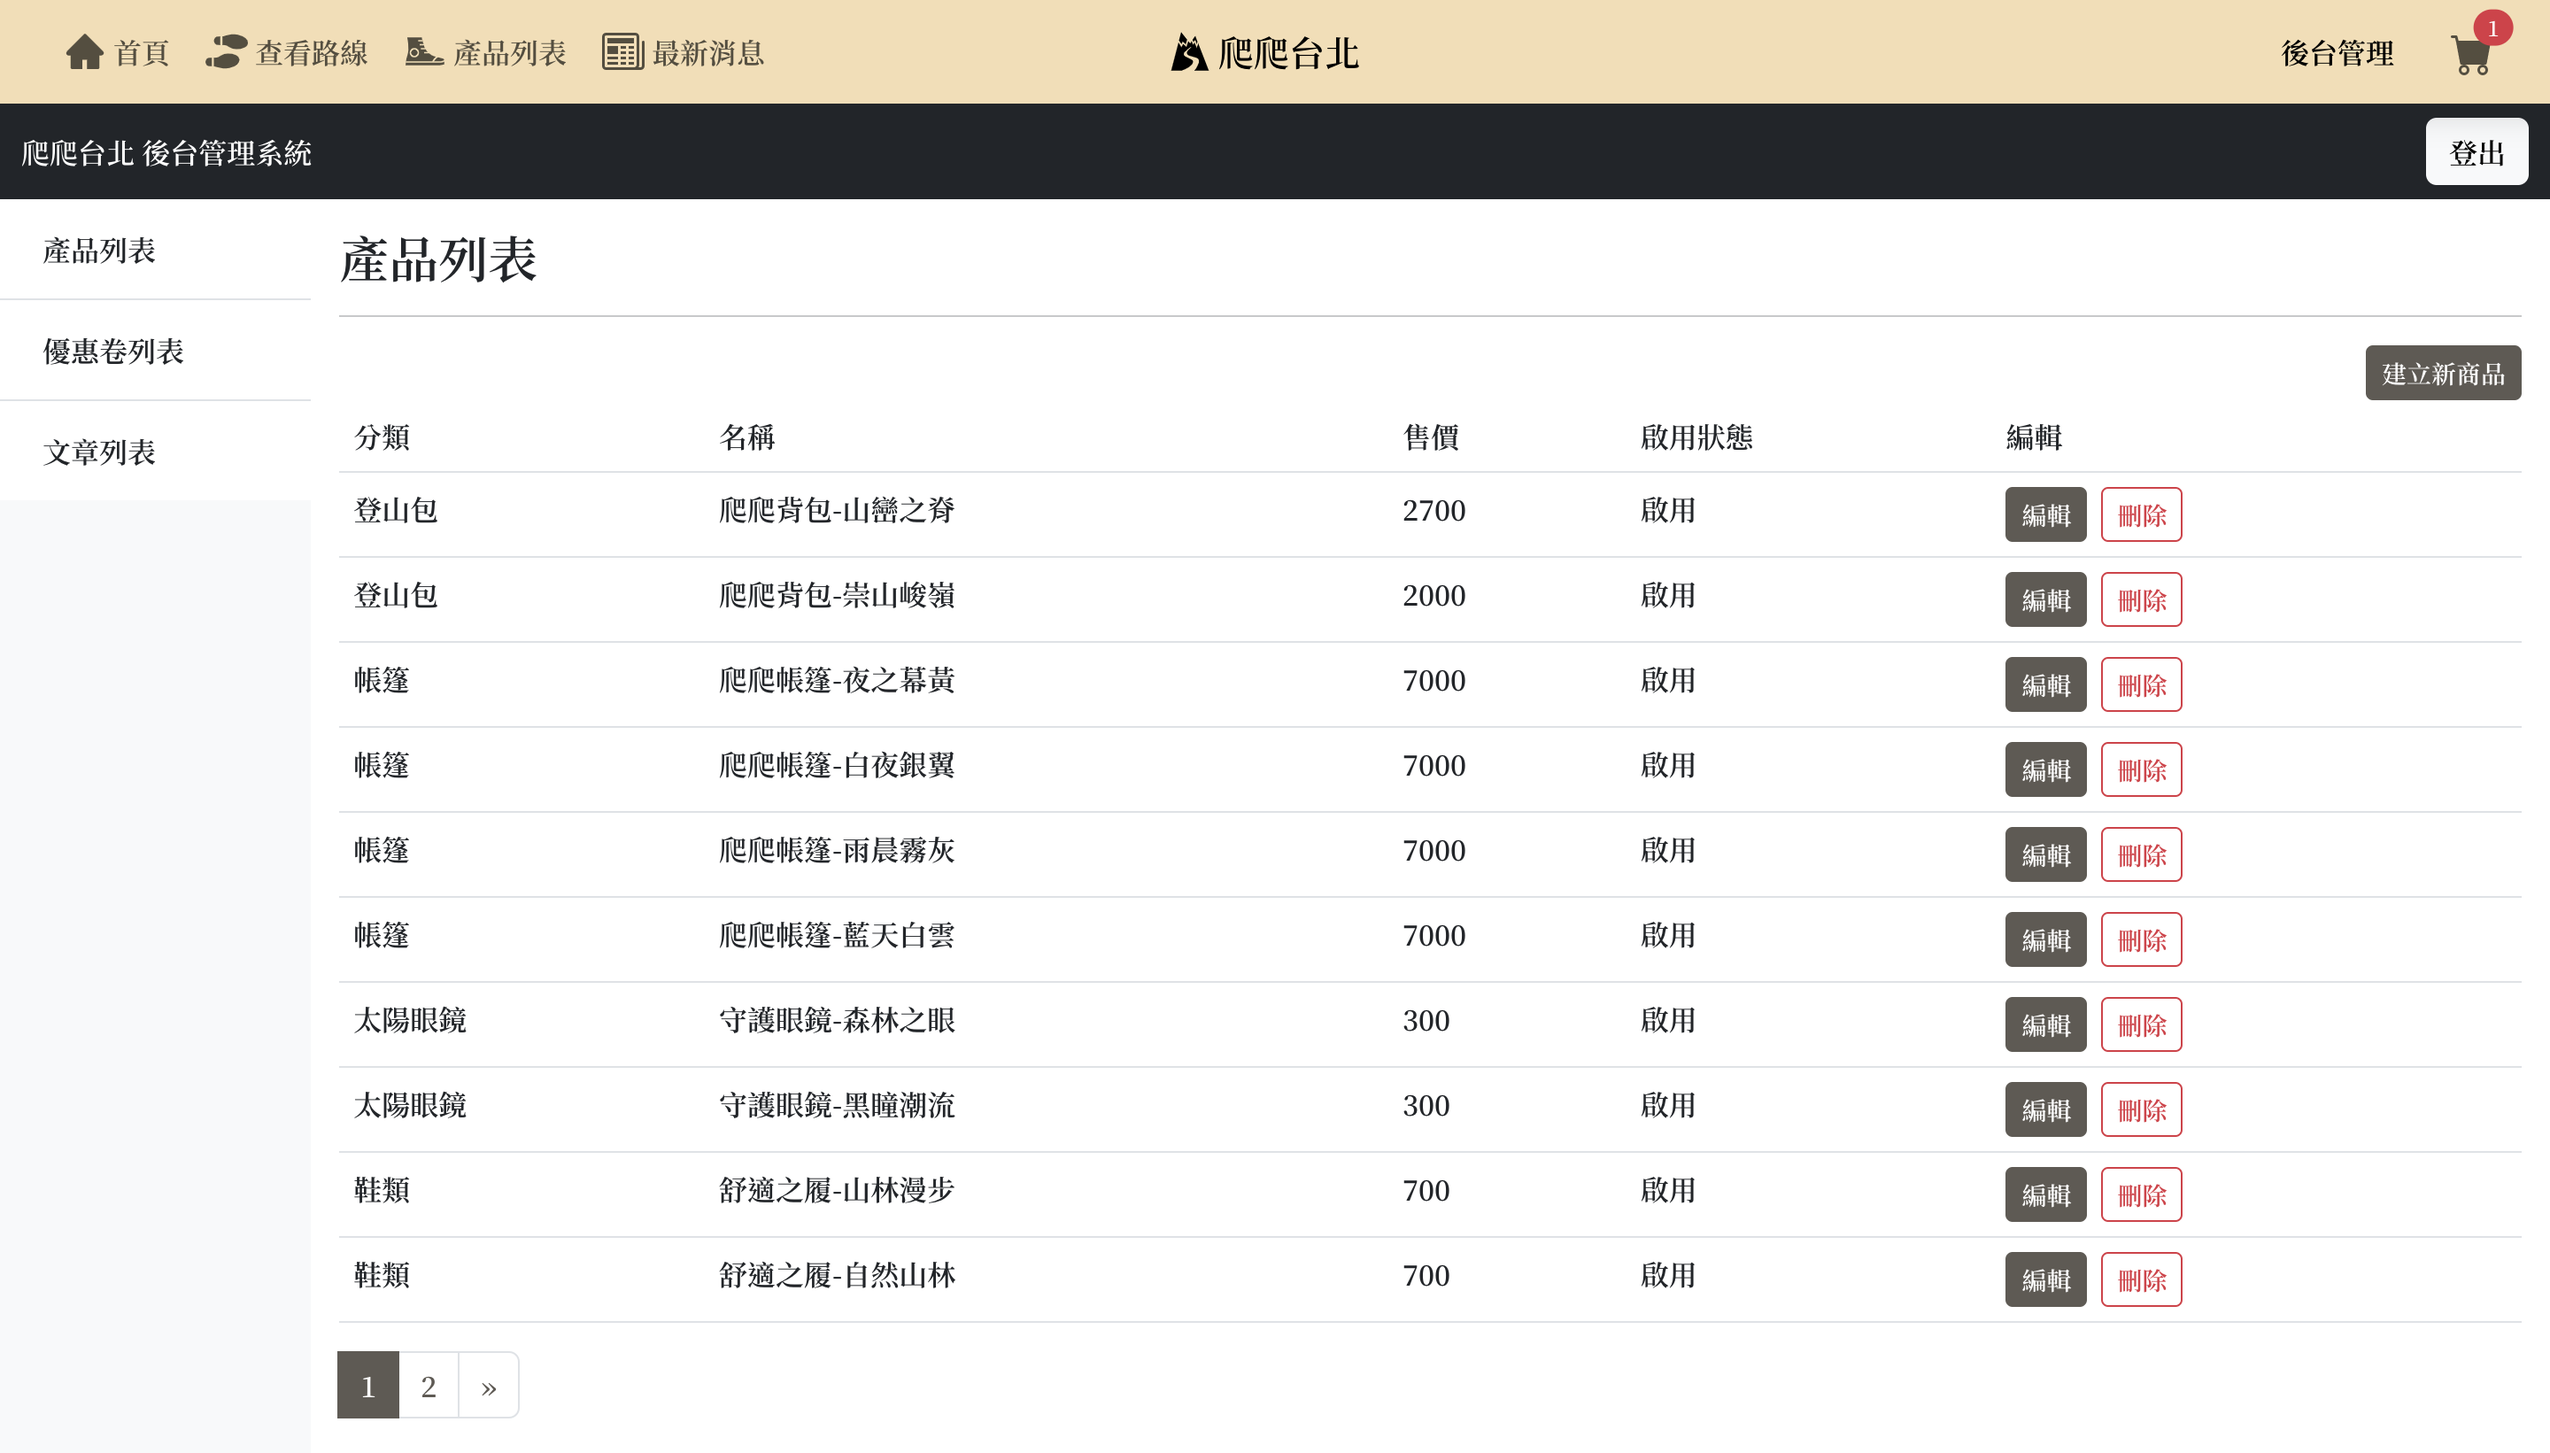
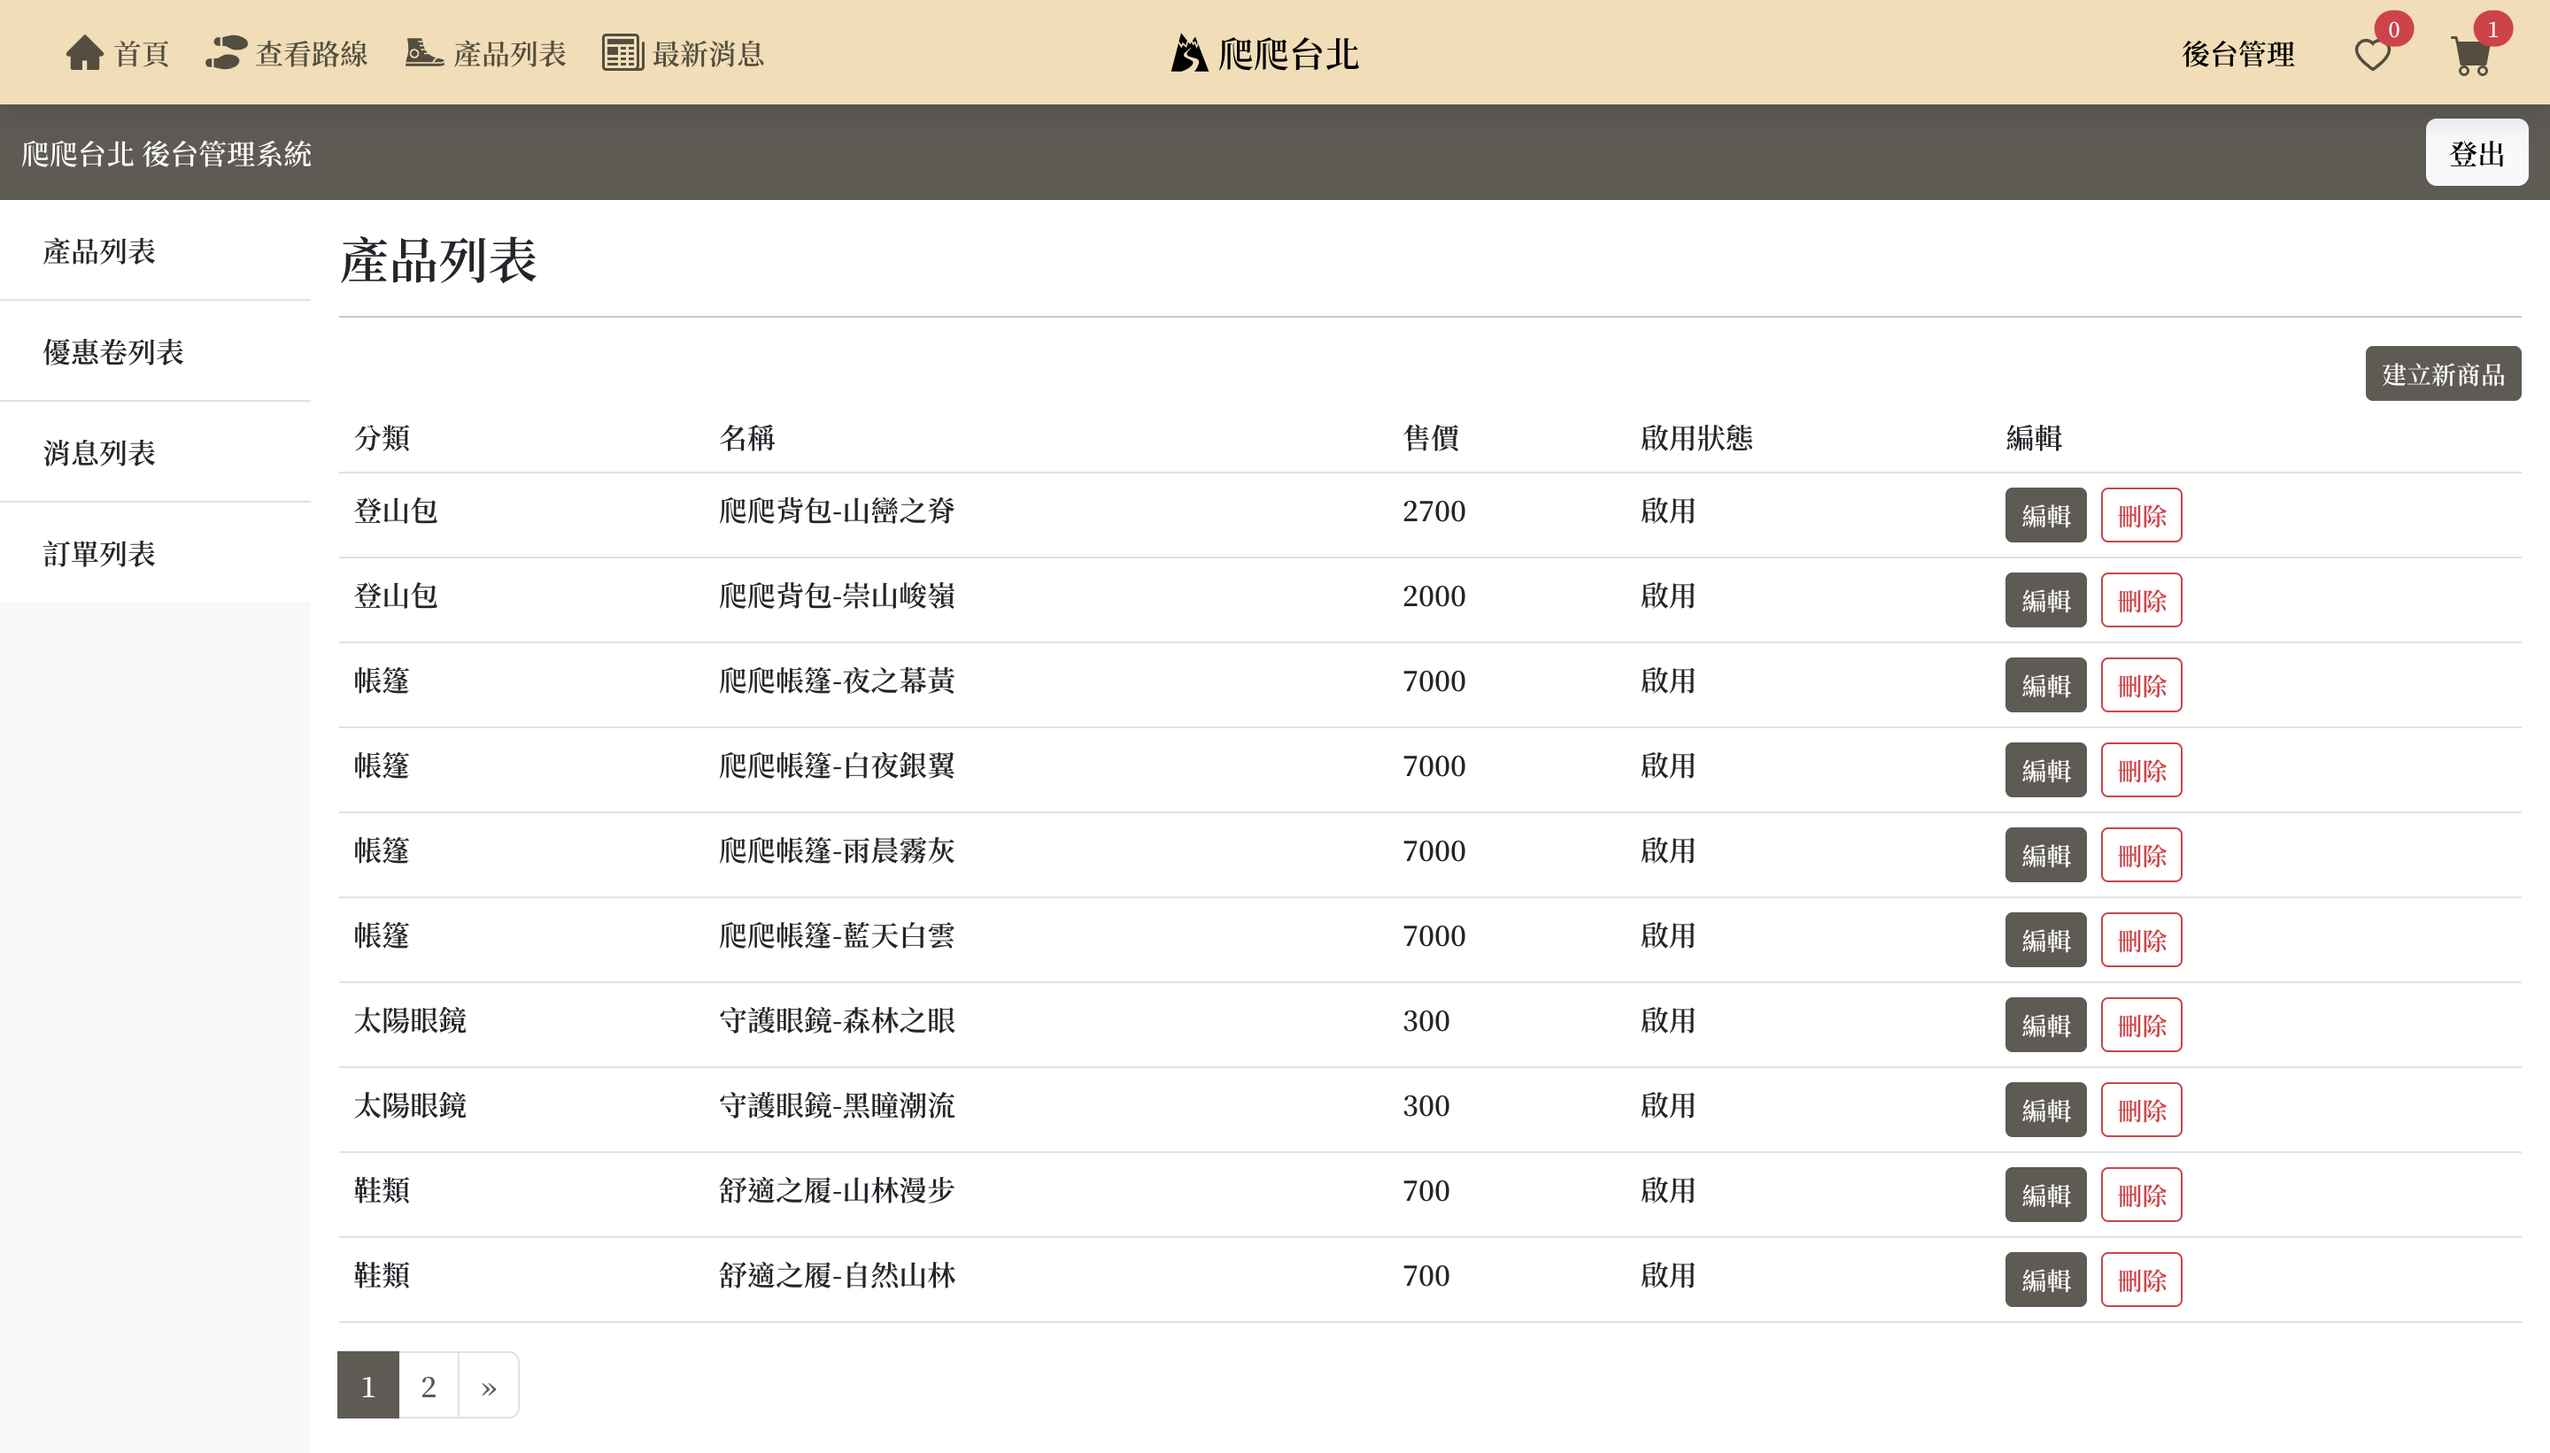
update readme

diff --git a/src/pages/admin/Dashboard.jsx b/src/pages/admin/Dashboard.jsx
@@ -54,7 +54,7 @@ const Dashboard = () => {
   return (
     <MessageContext.Provider value={reducer}>
       <Message />
-      <nav className="navbar navbar-expand-lg bg-dark">
+      <nav className="navbar navbar-expand-lg bg-primary">
         <div className="container-fluid ">
           <p className="text-white mb-0">爬爬台北 後台管理系統</p>
 
@@ -95,7 +95,7 @@ const Dashboard = () => {
               to="/admin/article"
             >
               <i className="bi bi-ticket-perforated-fill me-2" />
-              文章列表
+              消息列表
             </Link>
             <Link
               className="list-group-item list-group-item-action py-3"

diff --git a/src/pages/mountingroute/components/ListCard.jsx b/src/pages/mountingroute/components/ListCard.jsx
@@ -39,10 +39,13 @@ const ListCard = () => {
             key={i.登山步道路線}
           >
             <div className="card border-0 h-100">
-              <div className="productpage-img-container">
+              <div
+                className="route-img-container"
+                onClick={() => openMountingrouteModal(i)}
+              >
                 <img
                   src={i.img?.urls?.regular}
-                  className="card-img-top productpage-object-fit"
+                  className="card-img-top route-object-fit "
                   alt="..."
                 />
               </div>

diff --git a/src/pages/admin/AdminArticle.jsx b/src/pages/admin/AdminArticle.jsx
@@ -91,7 +91,7 @@ const AdminArticle = () => {
         handleDelete={deleteArticle}
         id={tempArticle.id}
       />
-      <h3>文章列表</h3>
+      <h3>消息列表</h3>
       <hr />
       <div className="text-end">
         <button
@@ -99,7 +99,7 @@ const AdminArticle = () => {
           className="btn btn-primary btn-sm"
           onClick={() => openArticlesModal("create", {})}
         >
-          建立新文章
+          建立新消息
         </button>
       </div>
       <table className="table ">

diff --git a/src/pages/products/ProductsPage.jsx b/src/pages/products/ProductsPage.jsx
@@ -15,14 +15,10 @@ const ProductsPage = () => {
     useContext(ProductContext);
 
   const [state, dispatch] = useContext(LoveContext);
-
   const [loveList, setLoveList] = useState([]);
 
   useEffect(() => {
-    const storedLoveList = JSON.parse(localStorage.getItem("loveList"));
-    if (storedLoveList) {
-      setLoveList(storedLoveList);
-    }
+    setLoveList(state?.loveList);
   }, [state]);
 
   return (

diff --git a/src/styles/index.css b/src/styles/index.css
@@ -10530,6 +10530,23 @@ a {
   border-radius: 50px;
 }
 
+.route-object-fit {
+  width: 100%;
+  height: 100%;
+  -o-object-fit: cover;
+     object-fit: cover;
+  transition: 0.5s;
+}
+.route-object-fit:hover {
+  scale: 1.2;
+}
+
+.route-img-container {
+  height: 300px;
+  overflow: hidden;
+  cursor: pointer;
+}
+
 .routes-li-height {
   height: 70px;
 }

diff --git a/src/pages/mountingroute/_mountingroute.scss b/src/pages/mountingroute/_mountingroute.scss
@@ -15,3 +15,20 @@
   color: black;
   border-radius: 50px;
 }
+
+.route-object-fit {
+  width: 100%;
+  height: 100%;
+  object-fit: cover;
+  transition: 0.5s;
+
+  &:hover {
+    scale: (1.2);
+  }
+}
+
+.route-img-container {
+  height: 300px;
+  overflow: hidden;
+  cursor: pointer;
+}

diff --git a/src/pages/admin/AdminOrder.jsx b/src/pages/admin/AdminOrder.jsx
@@ -87,7 +87,7 @@ const AdminOrder = () => {
           handleDelete={deleteOrder}
           id={tempOrders.id}
         />
-        <h3>產品列表</h3>
+        <h3>訂單列表</h3>
         <hr />
 
         <table className="table ">

diff --git a/README.md b/README.md
@@ -18,7 +18,7 @@
 1.使用 React 與 Hook 開發網頁功能與架構  
 2.使用 Context 與 Reducer 管理狀態  
 3.Bootstrap 5 / SCSS 完成 Web Layout  
-4.axios 串接 Unsplash API 完成步道圖片顯示
+4.Axios 串接 Unsplash API 完成步道圖片顯示
 
 ## 開發技術
 
@@ -26,7 +26,8 @@
 -React-Router-DOM  
 -React Hook Form  
 -Bootstrap 5  
--axios  
+-Swiper  
+-Axios  
 -react-loading  
 -AOS  
 -react-icons
